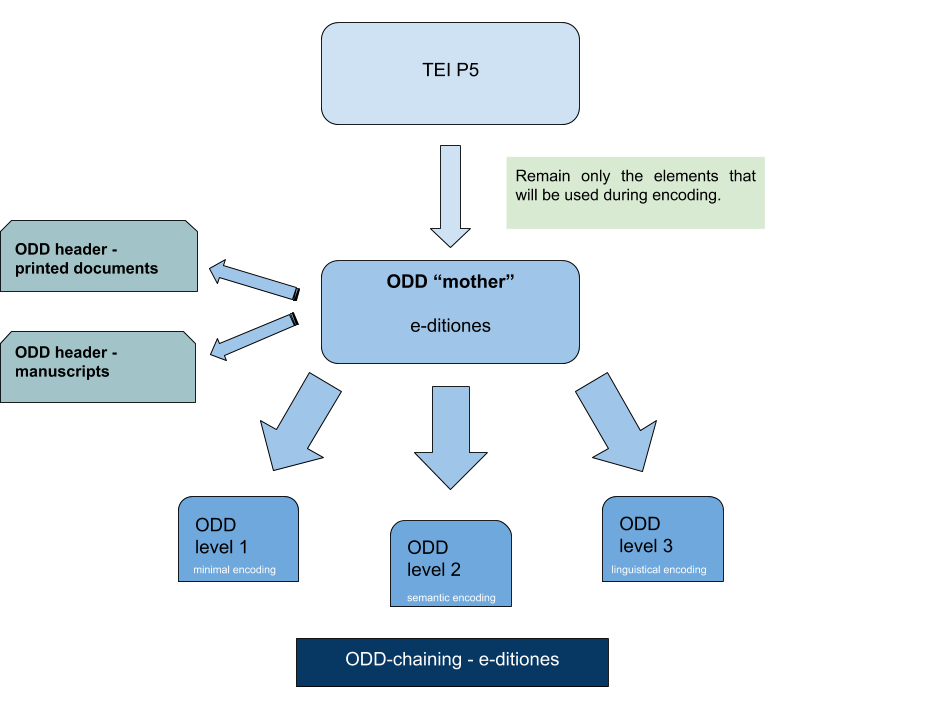
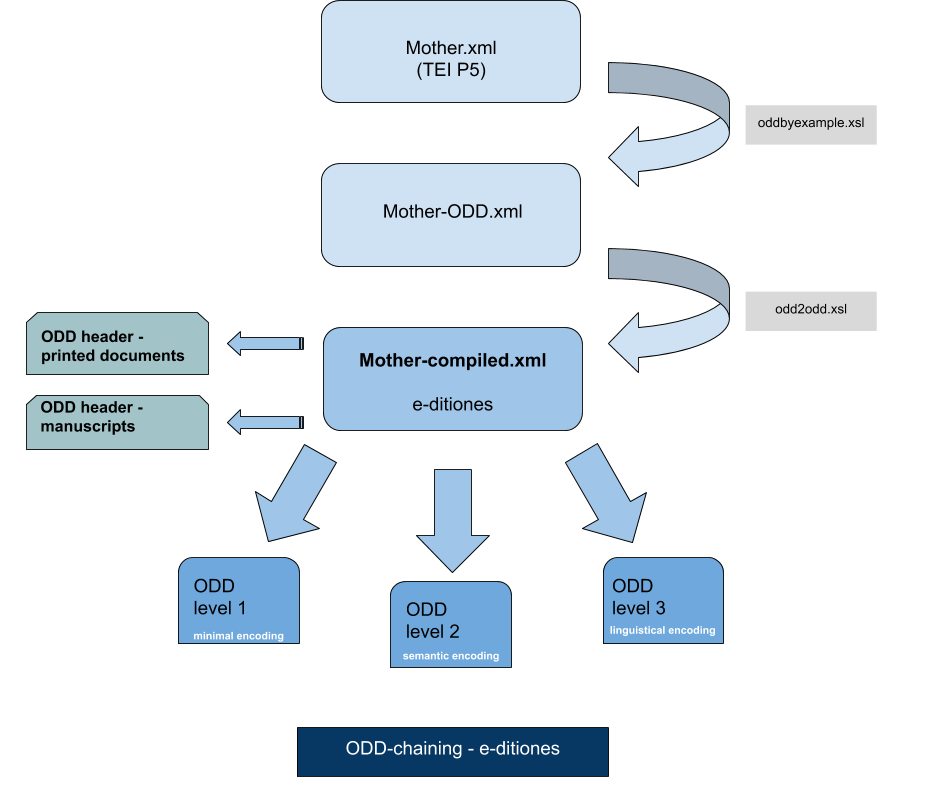
Add a new diagram

Changed region(s): [[0.0, 0.0, 0.9656, 0.8603], [0.3115, 0.8911, 0.6541, 0.9832]]

diff --git a/README.md b/README.md
@@ -4,7 +4,14 @@ Schemas and documentation for the encoding of french modern (17th c.) manuscript
 
 ## Introduction
 
-To encode those documents, we chose to use ODD-chaining. The following diagram explains how we did it :
+After the OCR of the text, its encoding will be completed in three phases : 
+* Level 1 : the encoding will distinguish form and content
+* Level 2 : we will add semantic informations
+* Level 3 : we will add linguistical informations
+
+![Levels-of-encoding](Documentation/Encoding_levels.png)
+
+To encode those documents at several levels, we chose to use ODD-chaining. The following diagram explains how we did it :
 
 First, we created a file `Mother.xml`containing all the elements that we will use during encoding, then we process a first transformation with `oddbyexample.xml`.
 We process on the output file, `Mother-ODD.xml`, an other transformation with `odd2odd`. The final output file, `Mother-compiled.xml`is used for the ODD-chaining process.
